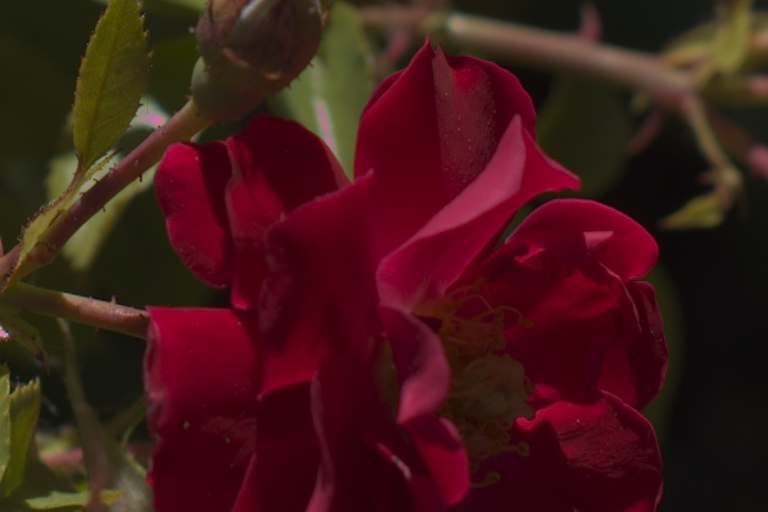
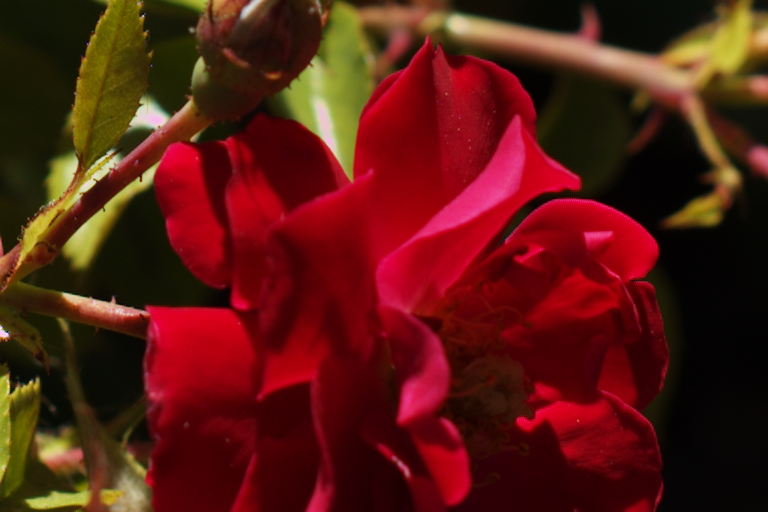
unsharp masking added

diff --git a/imaging.py b/imaging.py
@@ -1,14 +1,19 @@
 # Note:
 #   The functions try to operate in float32 data precision
 
+# =============================================================
 # Import the libraries
-import numpy as np
-import math
+# =============================================================
+import numpy as np  # array operations
+import math         # basing math operations
 from matplotlib import pylab as plt
-import time
+import time         # measure runtime
 import utility
 import debayer
-import os, sys
+import sys          # float precision
+from scipy import signal        # convolutions
+
+
 
 # =============================================================
 # class: ImageInfo
@@ -158,6 +163,7 @@ def black_level_correction(raw, black_level, white_level, clip_range):
 
     return data
 
+
 # =============================================================
 # function: channel_gain_white_balance
 #   multiply with the white balance channel gains
@@ -181,6 +187,7 @@ def channel_gain_white_balance(data, channel_gain):
     data = np.clip(data, 0., None) # upper level not necessary
 
     return data
+
 
 # =============================================================
 # function: bad_pixel_correction
@@ -258,6 +265,7 @@ def bad_pixel_correction(data, neighborhood_size):
     data[1::2, 1::2] = D[3]
 
     return data
+
 
 # =============================================================
 # class: demosaic
@@ -339,6 +347,7 @@ class lens_shading_correction:
         return "lens shading correction. There are two methods: " + \
                 "\n (1) flat_field_compensation: requires dark_current_image and flat_field_image" + \
                 "\n (2) approximate_mathematical_compensation:"
+
 
 # =============================================================
 # class: lens_shading_correction
@@ -542,6 +551,7 @@ class bayer_denoising:
     def __str__(self):
         return self.name
 
+
 # =============================================================
 # class: color_correction
 #   Correct the color in linaer domain
@@ -671,12 +681,89 @@ class nonlinearity:
         # apply nonlinearity
         return np.clip(clip_range[1] * (data**value), clip_range[0], clip_range[1])
 
-    def by_table(self, table, clip_range):
+    def by_table(self, table, nonlinearity_type="gamma", clip_range=[0, 65535]):
 
         print("----------------------------------------------------")
         print("Running nonlinearity by table...")
 
-        pass
+        gamma_table = np.loadtxt(table)
+        gamma_table = clip_range[1] * gamma_table / np.max(gamma_table)
+        linear_table = np.linspace(clip_range[0], clip_range[1], np.size(gamma_table))
+
+        # linear interpolation, query is the self.data
+        if (nonlinearity_type == "gamma"):
+            # mapping is from linear_table to gamma_table
+            return np.clip(np.interp(self.data, linear_table, gamma_table), clip_range[0], clip_range[1])
+        elif (nonlinearity_type == "degamma"):
+            # mapping is from gamma_table to linear_table
+            return np.clip(np.interp(self.data, gamma_table, linear_table), clip_range[0], clip_range[1])
+
+    def __str__(self):
+        return self.name
+
+
+# =============================================================
+# class: sharpening
+#   sharpens the image
+# =============================================================
+class sharpening:
+    def __init__(self, data, name="sharpening"):
+        self.data = np.float32(data)
+        self.name = name
+
+    def unsharp_masking(self, gaussian_kernel_size=[5, 5], gaussian_sigma=2.0,\
+                        slope=1.5, tau_threshold=0.05, gamma_speed=4., clip_range=[0, 65535]):
+        # Objective: sharpen image
+        # Input:
+        #   gaussian_kernel_size:   dimension of the gaussian blur filter kernel
+        #
+        #   gaussian_sigma:         spread of the gaussian blur filter kernel
+        #                           bigger sigma more sharpening
+        #
+        #   slope:                  controls the boost.
+        #                           the amount of sharpening, higher slope
+        #                           means more aggresssive sharpening
+        #
+        #   tau_threshold:          controls the amount of coring.
+        #                           threshold value till which the image is
+        #                           not sharpened. The lower the value of
+        #                           tau_threshold the more frequencies
+        #                           goes through the sharpening process
+        #
+        #   gamma_speed:            controls the speed of convergence to the slope
+        #                           smaller value gives a little bit more
+        #                           sharpened image, this may be a fine tuner
+
+        print("----------------------------------------------------")
+        print("Running sharpening by unsharp masking...")
+
+        # create gaussian kernel
+        temp = utility.create_filter("gaussian")
+        gaussian_kernel = temp.gaussian(gaussian_kernel_size, gaussian_sigma)
+
+        # convolove the image with the gaussian kernel
+        # first input is the image
+        # second input is the kernel
+        # output shape will be the same as the first input
+        # boundary will be padded by using symmetrical method while convolving
+        if np.ndim(self.data > 2):
+            image_blur = np.empty(np.shape(self.data), dtype=np.float32)
+            for i in range(0, np.shape(self.data)[2]):
+                image_blur[:, :, i] = signal.convolve2d(self.data[:, :, i], gaussian_kernel, mode="same", boundary="symm")
+        else:
+            image_blur = signal.convolove2d(self.data, gaussian_kernel, mode="same", boundary="symm")
+
+        # the high frequency component image
+        image_high_pass = self.data - image_blur
+
+        # soft coring (see in utility)
+        # basically pass the high pass image via a slightly nonlinear function
+        tau_threshold = tau_threshold * clip_range[1]
+        temp = utility.special_function(image_high_pass, "soft coring")
+
+        # add the soft cored high pass image to the original and clip
+        # within range and return
+        return np.clip(self.data + temp.soft_coring(slope, tau_threshold, gamma_speed), clip_range[0], clip_range[1])
 
     def __str__(self):
         return self.name

diff --git a/utility.py b/utility.py
@@ -116,6 +116,7 @@ def imsave(data, output_name, output_dtype="uint8", input_dtype="uint8", is_scal
         print("output_name should contain extensions of .raw, .png, or .jpg")
         return
 
+
 # =============================================================
 # function: get_width_height
 #   returns width, height
@@ -131,14 +132,40 @@ def get_width_height(data):
         print("data dimension must be 2 or greater")
 
 
-
-
 # =============================================================
 # function: distance_euclid
 #   returns Euclidean distance between two points
 # =============================================================
 def distance_euclid(point1, point2):
     return math.sqrt((point1[0] - point2[0])**2 + (point1[1]-point2[1])**2)
+
+
+# =============================================================
+# class: special_functions
+#   pass input through special functions
+# =============================================================
+class special_function:
+    def __init__(self, data, name="special function"):
+        self.data = np.float32(data)
+        self.name = name
+
+    def soft_coring(self, slope, tau_threshold, gamma_speed):
+        # Usage: Used in the unsharp masking sharpening Process
+        # Input:
+        #   slope:                  controls the boost.
+        #                           the amount of sharpening, higher slope
+        #                           means more aggresssive sharpening
+        #
+        #   tau_threshold:          controls the amount of coring.
+        #                           threshold value till which the image is
+        #                           not sharpened. The lower the value of
+        #                           tau_threshold the more frequencies
+        #                           goes through the sharpening process
+        #
+        #   gamma_speed:            controls the speed of convergence to the slope
+        #                           smaller value gives a little bit more
+        #                           sharpened image, this may be a fine tuner
+        return slope * self.data * ( 1. - np.exp(-((np.abs(self.data / tau_threshold))**gamma_speed)))
 
 
 # =============================================================
@@ -273,3 +300,60 @@ def shuffle_bayer_pattern(data, input_pattern, output_pattern):
 
     # return integrated data
     return bayer_channel_integration(R, G1, G2, B, output_pattern)
+
+
+# =============================================================
+# class: create_filter
+#   creates different filters, generally 2D filters
+# =============================================================
+class create_filter:
+    def __init__(self, name="filter"):
+        self.name = name
+
+    def gaussian(self, kernel_size, sigma):
+
+        # calculate which number to where the grid should be
+        # remember that, kernel_size[0] is the width of the kernel
+        # and kernel_size[1] is the height of the kernel
+        temp = np.floor(np.float32(kernel_size) / 2.)
+
+        # create the grid
+        # example: if kernel_size = [5, 3], then:
+        # x: array([[-2., -1.,  0.,  1.,  2.],
+        #           [-2., -1.,  0.,  1.,  2.],
+        #           [-2., -1.,  0.,  1.,  2.]])
+        # y: array([[-1., -1., -1., -1., -1.],
+        #           [ 0.,  0.,  0.,  0.,  0.],
+        #           [ 1.,  1.,  1.,  1.,  1.]])
+        x, y = np.meshgrid(np.linspace(-temp[0], temp[0], kernel_size[0]),\
+                           np.linspace(-temp[1], temp[1], kernel_size[1]))
+
+        # Gaussian equation
+        temp = np.exp( -(x**2 + y**2) / (2. * sigma**2) )
+
+        # make kernel sum equal to 1
+        return temp / np.sum(temp)
+
+    def gaussian_separable(self, kernel_size, sigma):
+
+        # calculate which number to where the grid should be
+        # remember that, kernel_size[0] is the width of the kernel
+        # and kernel_size[1] is the height of the kernel
+        temp = np.floor(np.float32(kernel_size) / 2.)
+
+        # create the horizontal kernel
+        x = np.linspace(-temp[0], temp[0], kernel_size[0])
+        x = x.reshape((1, kernel_size[0])) # reshape to create row vector
+        hx = np.exp(-x**2 / (2 * sigma**2))
+        hx = hx / np.sum(hx)
+
+        # create the vertical kernel
+        y = np.linspace(-temp[1], temp[1], kernel_size[1])
+        y = y.reshape((kernel_size[1], 1)) # reshape to create column vector
+        hy = np.exp(-y**2 / (2 * sigma**2))
+        hy = hy / np.sum(hy)
+
+        return hx, hy
+
+    def __str__(self):
+        return self.name

diff --git a/main.py b/main.py
@@ -18,6 +18,7 @@ do_channel_gain_white_balance = True
 do_demosaic = True
 do_color_correction = True
 do_gamma = True
+do_sharpening = True
 
 # ===================================
 # Remove all the .png files
@@ -161,8 +162,15 @@ else:
 # ===================================
 if do_gamma:
     temp = imaging.nonlinearity(data, "gamma")
-    data = temp.by_value(1/2.2, [0, 65535])
+
+    # by value
+    #data = temp.by_value(1/2.2, [0, 65535])
+
+    # by table
+    data = temp.by_table("tables/GammaE.txt", "gamma", [0, 65535])
+
     utility.imsave(data, "images/out_gamma.png", "uint16")
+
 else:
     pass
 
@@ -185,6 +193,15 @@ else:
 # ===================================
 # Sharpening
 # ===================================
+if do_sharpening:
+    temp = imaging.sharpening(data)
+
+    data = temp.unsharp_masking()
+
+    utility.imsave(data, "images/out_sharpening.png", "uint16")
+
+else:
+    pass
 
 # ===================================
 # Distortion correction
